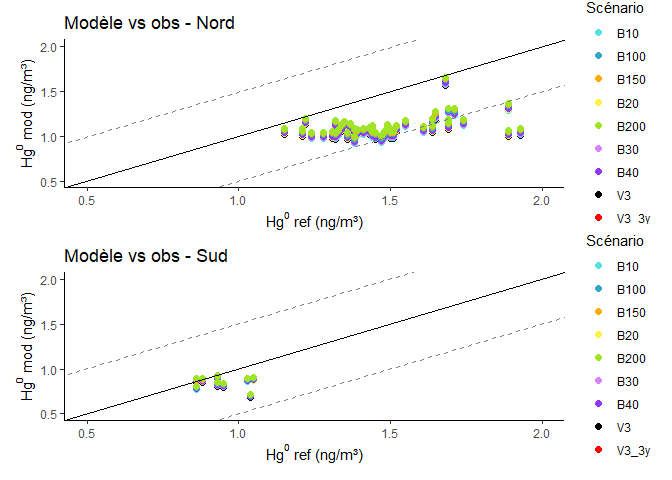
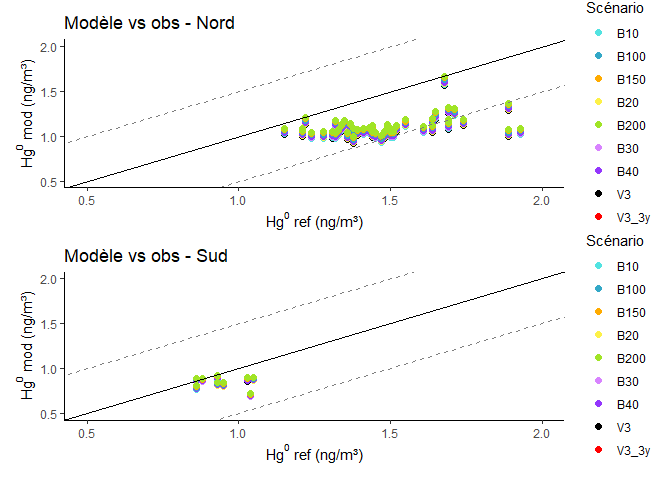
modif

diff --git a/notebooks/Markdown_R/Comp_conc_beta_ref_23_06_2025/Comp_conc_beta_ref_23_06_2025.html b/notebooks/Markdown_R/Comp_conc_beta_ref_23_06_2025/Comp_conc_beta_ref_23_06_2025.html
@@ -627,13 +627,13 @@ de surface de cellule</h1>
 <span id="cb3-8"><a href="#cb3-8" tabindex="-1"></a>R <span class="ot">&lt;-</span> <span class="fl">8.3145</span></span>
 <span id="cb3-9"><a href="#cb3-9" tabindex="-1"></a>P <span class="ot">&lt;-</span> <span class="dv">101325</span></span>
 <span id="cb3-10"><a href="#cb3-10" tabindex="-1"></a>T <span class="ot">&lt;-</span> <span class="fl">298.15</span></span></code></pre></div>
-<h1 id="concentrations---scénario-b25">Concentrations - scénario
-B25</h1>
-<div class="sourceCode" id="cb4"><pre class="sourceCode r"><code class="sourceCode r"><span id="cb4-1"><a href="#cb4-1" tabindex="-1"></a>chem_B25 <span class="ot">&lt;-</span> <span class="st">&quot;C:/Users/colom/Desktop/STAGE/data/clean_mod_data/14_3_1/HIST_B25&quot;</span></span>
-<span id="cb4-2"><a href="#cb4-2" tabindex="-1"></a>species_conc_B25 <span class="ot">&lt;-</span> <span class="fu">nc_open</span>(<span class="fu">file.path</span>(chem_B25, <span class="st">&quot;GEOSChem.SpeciesConc.2015_m.nc4&quot;</span>))</span>
-<span id="cb4-3"><a href="#cb4-3" tabindex="-1"></a>conc_hg0_B25 <span class="ot">&lt;-</span> <span class="fu">ncvar_get</span>(species_conc_B25, <span class="st">&quot;SpeciesConcVV_Hg0&quot;</span>)</span>
-<span id="cb4-4"><a href="#cb4-4" tabindex="-1"></a>conc_hg0_B25 <span class="ot">&lt;-</span> conc_hg0_B25[,,<span class="dv">1</span>,]</span>
-<span id="cb4-5"><a href="#cb4-5" tabindex="-1"></a>time_raw <span class="ot">&lt;-</span> <span class="fu">ncvar_get</span>(species_conc_B25, <span class="st">&quot;time&quot;</span>)</span>
+<h1 id="concentrations---scénario-b20">Concentrations - scénario
+B20</h1>
+<div class="sourceCode" id="cb4"><pre class="sourceCode r"><code class="sourceCode r"><span id="cb4-1"><a href="#cb4-1" tabindex="-1"></a>chem_B20 <span class="ot">&lt;-</span> <span class="st">&quot;C:/Users/colom/Desktop/STAGE/data/clean_mod_data/14_3_1/HIST_B20&quot;</span></span>
+<span id="cb4-2"><a href="#cb4-2" tabindex="-1"></a>species_conc_B20 <span class="ot">&lt;-</span> <span class="fu">nc_open</span>(<span class="fu">file.path</span>(chem_B20, <span class="st">&quot;GEOSChem.SpeciesConc.2015_m.nc4&quot;</span>))</span>
+<span id="cb4-3"><a href="#cb4-3" tabindex="-1"></a>conc_hg0_B20 <span class="ot">&lt;-</span> <span class="fu">ncvar_get</span>(species_conc_B20, <span class="st">&quot;SpeciesConcVV_Hg0&quot;</span>)</span>
+<span id="cb4-4"><a href="#cb4-4" tabindex="-1"></a>conc_hg0_B20 <span class="ot">&lt;-</span> conc_hg0_B20[,,<span class="dv">1</span>,]</span>
+<span id="cb4-5"><a href="#cb4-5" tabindex="-1"></a>time_raw <span class="ot">&lt;-</span> <span class="fu">ncvar_get</span>(species_conc_B20, <span class="st">&quot;time&quot;</span>)</span>
 <span id="cb4-6"><a href="#cb4-6" tabindex="-1"></a>origin_time <span class="ot">&lt;-</span> <span class="fu">as.POSIXct</span>(<span class="st">&quot;2015-01-01 00:00:00&quot;</span>, <span class="at">tz =</span> <span class="st">&quot;UTC&quot;</span>)</span>
 <span id="cb4-7"><a href="#cb4-7" tabindex="-1"></a>time <span class="ot">&lt;-</span> origin_time <span class="sc">+</span> time_raw <span class="sc">*</span> <span class="dv">60</span></span>
 <span id="cb4-8"><a href="#cb4-8" tabindex="-1"></a>days_in_months <span class="ot">&lt;-</span> <span class="fu">days_in_month</span>(time)</span>
@@ -641,9 +641,9 @@ B25</h1>
 <span id="cb4-10"><a href="#cb4-10" tabindex="-1"></a>weighted_avg <span class="ot">&lt;-</span> <span class="cf">function</span>(x) <span class="fu">sum</span>(x <span class="sc">*</span> weights)</span>
 <span id="cb4-11"><a href="#cb4-11" tabindex="-1"></a>lon <span class="ot">&lt;-</span> <span class="fu">seq</span>(<span class="sc">-</span><span class="dv">180</span>, <span class="dv">180</span>, <span class="at">length.out =</span> <span class="dv">144</span>)</span>
 <span id="cb4-12"><a href="#cb4-12" tabindex="-1"></a>lat <span class="ot">&lt;-</span> <span class="fu">seq</span>(<span class="sc">-</span><span class="dv">90</span>, <span class="dv">90</span>, <span class="at">length.out =</span> <span class="dv">91</span>)</span>
-<span id="cb4-13"><a href="#cb4-13" tabindex="-1"></a>conc_hg0_B25 <span class="ot">&lt;-</span> <span class="fu">apply</span>(conc_hg0_B25, <span class="at">MARGIN =</span> <span class="fu">c</span>(<span class="dv">1</span>, <span class="dv">2</span>), <span class="at">FUN =</span> weighted_avg)</span>
-<span id="cb4-14"><a href="#cb4-14" tabindex="-1"></a>conc_hg0_B25 <span class="ot">&lt;-</span> conc_hg0_B25 <span class="sc">*</span> P <span class="sc">*</span> (M_Hg <span class="sc">/</span> (R <span class="sc">*</span> T)) <span class="sc">*</span> <span class="fl">1e9</span></span>
-<span id="cb4-15"><a href="#cb4-15" tabindex="-1"></a>df_mrtn_B25 <span class="ot">&lt;-</span> <span class="fu">expand.grid</span>(<span class="at">lon =</span> lon, <span class="at">lat =</span> lat) <span class="sc">%&gt;%</span> <span class="fu">mutate</span>(<span class="at">conc =</span> <span class="fu">as.vector</span>(conc_hg0_B25))</span></code></pre></div>
+<span id="cb4-13"><a href="#cb4-13" tabindex="-1"></a>conc_hg0_B20 <span class="ot">&lt;-</span> <span class="fu">apply</span>(conc_hg0_B20, <span class="at">MARGIN =</span> <span class="fu">c</span>(<span class="dv">1</span>, <span class="dv">2</span>), <span class="at">FUN =</span> weighted_avg)</span>
+<span id="cb4-14"><a href="#cb4-14" tabindex="-1"></a>conc_hg0_B20 <span class="ot">&lt;-</span> conc_hg0_B20 <span class="sc">*</span> P <span class="sc">*</span> (M_Hg <span class="sc">/</span> (R <span class="sc">*</span> T)) <span class="sc">*</span> <span class="fl">1e9</span></span>
+<span id="cb4-15"><a href="#cb4-15" tabindex="-1"></a>df_mrtn_B20 <span class="ot">&lt;-</span> <span class="fu">expand.grid</span>(<span class="at">lon =</span> lon, <span class="at">lat =</span> lat) <span class="sc">%&gt;%</span> <span class="fu">mutate</span>(<span class="at">conc =</span> <span class="fu">as.vector</span>(conc_hg0_B20))</span></code></pre></div>
 <h1 id="lecture-des-observations">Lecture des observations</h1>
 <div class="sourceCode" id="cb5"><pre class="sourceCode r"><code class="sourceCode r"><span id="cb5-1"><a href="#cb5-1" tabindex="-1"></a>chem_ref <span class="ot">&lt;-</span> <span class="st">&quot;C:/Users/colom/Desktop/STAGE/data/clean_mod_data/ref_wd_con_hg&quot;</span></span>
 <span id="cb5-2"><a href="#cb5-2" tabindex="-1"></a>ref_hg0_1 <span class="ot">&lt;-</span> <span class="fu">read.csv2</span>(<span class="fu">file.path</span>(chem_ref, <span class="st">&quot;Hg0_annual_2013-2015_Apr13_2024.csv&quot;</span>), <span class="at">sep =</span> <span class="st">&quot;,&quot;</span>, <span class="at">header =</span> <span class="cn">TRUE</span>)</span>
@@ -665,7 +665,7 @@ concentration modélisée aux stations</h1>
 <span id="cb6-8"><a href="#cb6-8" tabindex="-1"></a>  <span class="fu">return</span>(candidates<span class="sc">$</span>conc[nearest_index])</span>
 <span id="cb6-9"><a href="#cb6-9" tabindex="-1"></a>}</span>
 <span id="cb6-10"><a href="#cb6-10" tabindex="-1"></a></span>
-<span id="cb6-11"><a href="#cb6-11" tabindex="-1"></a>ref_hg0_1<span class="sc">$</span>conc_model_mrtn <span class="ot">&lt;-</span> <span class="fu">mapply</span>(get_nearest_conc, ref_hg0_1<span class="sc">$</span>Lon, ref_hg0_1<span class="sc">$</span>Lat, <span class="at">MoreArgs =</span> <span class="fu">list</span>(<span class="at">grid_df =</span> df_mrtn_B25))</span></code></pre></div>
+<span id="cb6-11"><a href="#cb6-11" tabindex="-1"></a>ref_hg0_1<span class="sc">$</span>conc_model_mrtn <span class="ot">&lt;-</span> <span class="fu">mapply</span>(get_nearest_conc, ref_hg0_1<span class="sc">$</span>Lon, ref_hg0_1<span class="sc">$</span>Lat, <span class="at">MoreArgs =</span> <span class="fu">list</span>(<span class="at">grid_df =</span> df_mrtn_B20))</span></code></pre></div>
 <h1 id="comparaison-graphique---hémisphères">Comparaison graphique -
 Hémisphères</h1>
 <div class="sourceCode" id="cb7"><pre class="sourceCode r"><code class="sourceCode r"><span id="cb7-1"><a href="#cb7-1" tabindex="-1"></a>ref_hg0_1_hemiN <span class="ot">&lt;-</span> ref_hg0_1[ref_hg0_1<span class="sc">$</span>Lat <span class="sc">&gt;</span> <span class="dv">0</span>, ]</span>
@@ -687,7 +687,7 @@ Hémisphères</h1>
 <span id="cb7-17"><a href="#cb7-17" tabindex="-1"></a><span class="fu">plot_comparaison</span>(ref_hg0_1_hemiN, <span class="st">&quot;Comparaison Hémisphère Nord&quot;</span>) <span class="sc">+</span></span>
 <span id="cb7-18"><a href="#cb7-18" tabindex="-1"></a>  <span class="fu">plot_comparaison</span>(ref_hg0_1_hemiS, <span class="st">&quot;Comparaison Hémisphère Sud&quot;</span>) <span class="sc">+</span></span>
 <span id="cb7-19"><a href="#cb7-19" tabindex="-1"></a>  <span class="fu">plot_layout</span>(<span class="at">nrow =</span> <span class="dv">2</span>)</span></code></pre></div>
[2 lines of base64/hex data omitted]
 <h1 id="comparaison-multi-scénarios">Comparaison multi-scénarios</h1>
 <div class="sourceCode" id="cb8"><pre class="sourceCode r"><code class="sourceCode r"><span id="cb8-1"><a href="#cb8-1" tabindex="-1"></a>scenarios <span class="ot">&lt;-</span> <span class="fu">c</span>(<span class="st">&quot;V3&quot;</span>,<span class="st">&quot;V3_3y&quot;</span> ,<span class="st">&quot;B10&quot;</span>,  <span class="st">&quot;B20&quot;</span>,  <span class="st">&quot;B30&quot;</span>, <span class="st">&quot;B40&quot;</span>, <span class="st">&quot;B100&quot;</span>, <span class="st">&quot;B150&quot;</span>, <span class="st">&quot;B200&quot;</span> )</span>
 <span id="cb8-2"><a href="#cb8-2" tabindex="-1"></a>chem_base <span class="ot">&lt;-</span> <span class="st">&quot;C:/Users/colom/Desktop/STAGE/data/clean_mod_data/14_3_1/HIST_&quot;</span></span>
@@ -749,7 +749,7 @@ Hémisphères</h1>
 <span id="cb10-20"><a href="#cb10-20" tabindex="-1"></a><span class="fu">plot_multi</span>(res_N, <span class="st">&quot;Modèle vs obs - Nord&quot;</span>) <span class="sc">+</span></span>
 <span id="cb10-21"><a href="#cb10-21" tabindex="-1"></a>  <span class="fu">plot_multi</span>(res_S, <span class="st">&quot;Modèle vs obs - Sud&quot;</span>) <span class="sc">+</span></span>
 <span id="cb10-22"><a href="#cb10-22" tabindex="-1"></a>  <span class="fu">plot_layout</span>(<span class="at">nrow =</span> <span class="dv">2</span>)</span></code></pre></div>
[2 lines of base64/hex data omitted]
 
 </body>
 </html>

diff --git a/notebooks/Markdown_R/Comp_conc_beta_ref_23_06_2025/Comp_conc_beta_ref_23_06_2025.md b/notebooks/Markdown_R/Comp_conc_beta_ref_23_06_2025/Comp_conc_beta_ref_23_06_2025.md
@@ -37,14 +37,14 @@ P <- 101325
 T <- 298.15
 ```
 
-# Concentrations - scénario B25
+# Concentrations - scénario B20
 
 ``` r
-chem_B25 <- "C:/Users/colom/Desktop/STAGE/data/clean_mod_data/14_3_1/HIST_B25"
-species_conc_B25 <- nc_open(file.path(chem_B25, "GEOSChem.SpeciesConc.2015_m.nc4"))
-conc_hg0_B25 <- ncvar_get(species_conc_B25, "SpeciesConcVV_Hg0")
-conc_hg0_B25 <- conc_hg0_B25[,,1,]
-time_raw <- ncvar_get(species_conc_B25, "time")
+chem_B20 <- "C:/Users/colom/Desktop/STAGE/data/clean_mod_data/14_3_1/HIST_B20"
+species_conc_B20 <- nc_open(file.path(chem_B20, "GEOSChem.SpeciesConc.2015_m.nc4"))
+conc_hg0_B20 <- ncvar_get(species_conc_B20, "SpeciesConcVV_Hg0")
+conc_hg0_B20 <- conc_hg0_B20[,,1,]
+time_raw <- ncvar_get(species_conc_B20, "time")
 origin_time <- as.POSIXct("2015-01-01 00:00:00", tz = "UTC")
 time <- origin_time + time_raw * 60
 days_in_months <- days_in_month(time)
@@ -52,9 +52,9 @@ weights <- days_in_months / sum(days_in_months)
 weighted_avg <- function(x) sum(x * weights)
 lon <- seq(-180, 180, length.out = 144)
 lat <- seq(-90, 90, length.out = 91)
-conc_hg0_B25 <- apply(conc_hg0_B25, MARGIN = c(1, 2), FUN = weighted_avg)
-conc_hg0_B25 <- conc_hg0_B25 * P * (M_Hg / (R * T)) * 1e9
-df_mrtn_B25 <- expand.grid(lon = lon, lat = lat) %>% mutate(conc = as.vector(conc_hg0_B25))
+conc_hg0_B20 <- apply(conc_hg0_B20, MARGIN = c(1, 2), FUN = weighted_avg)
+conc_hg0_B20 <- conc_hg0_B20 * P * (M_Hg / (R * T)) * 1e9
+df_mrtn_B20 <- expand.grid(lon = lon, lat = lat) %>% mutate(conc = as.vector(conc_hg0_B20))
 ```
 
 # Lecture des observations
@@ -83,7 +83,7 @@ get_nearest_conc <- function(station_lon, station_lat, grid_df) {
   return(candidates$conc[nearest_index])
 }
 
-ref_hg0_1$conc_model_mrtn <- mapply(get_nearest_conc, ref_hg0_1$Lon, ref_hg0_1$Lat, MoreArgs = list(grid_df = df_mrtn_B25))
+ref_hg0_1$conc_model_mrtn <- mapply(get_nearest_conc, ref_hg0_1$Lon, ref_hg0_1$Lat, MoreArgs = list(grid_df = df_mrtn_B20))
 ```
 
 # Comparaison graphique - Hémisphères
